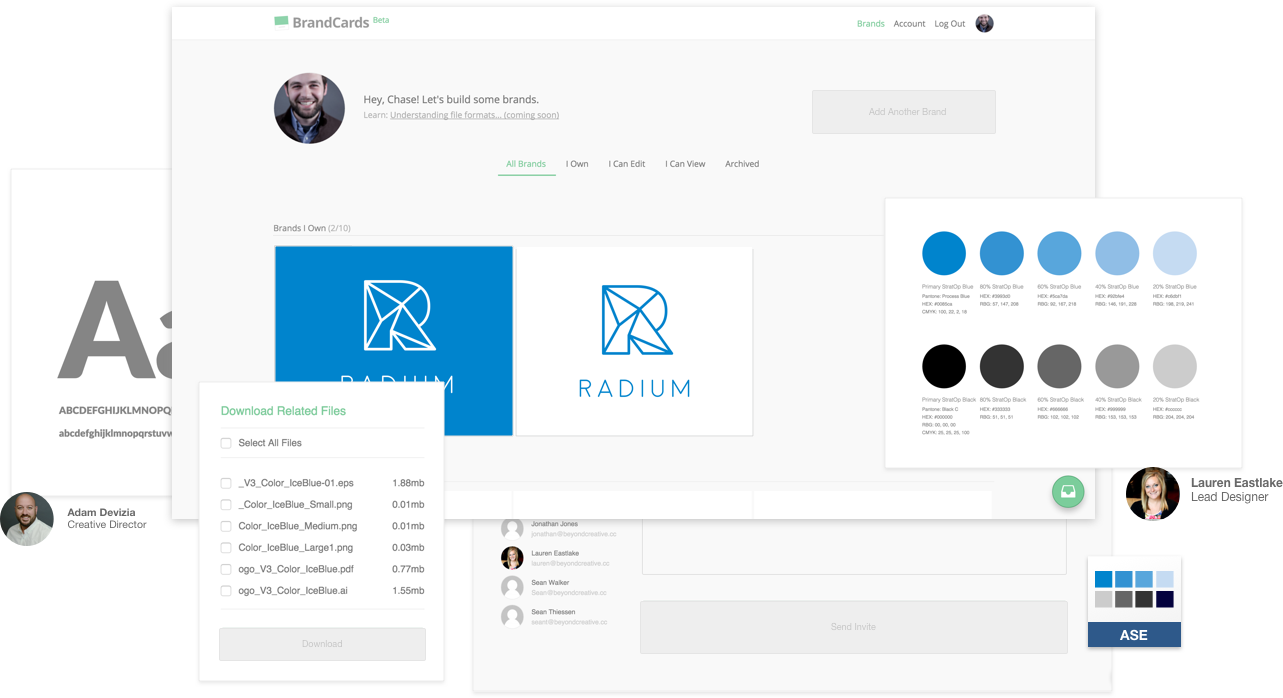
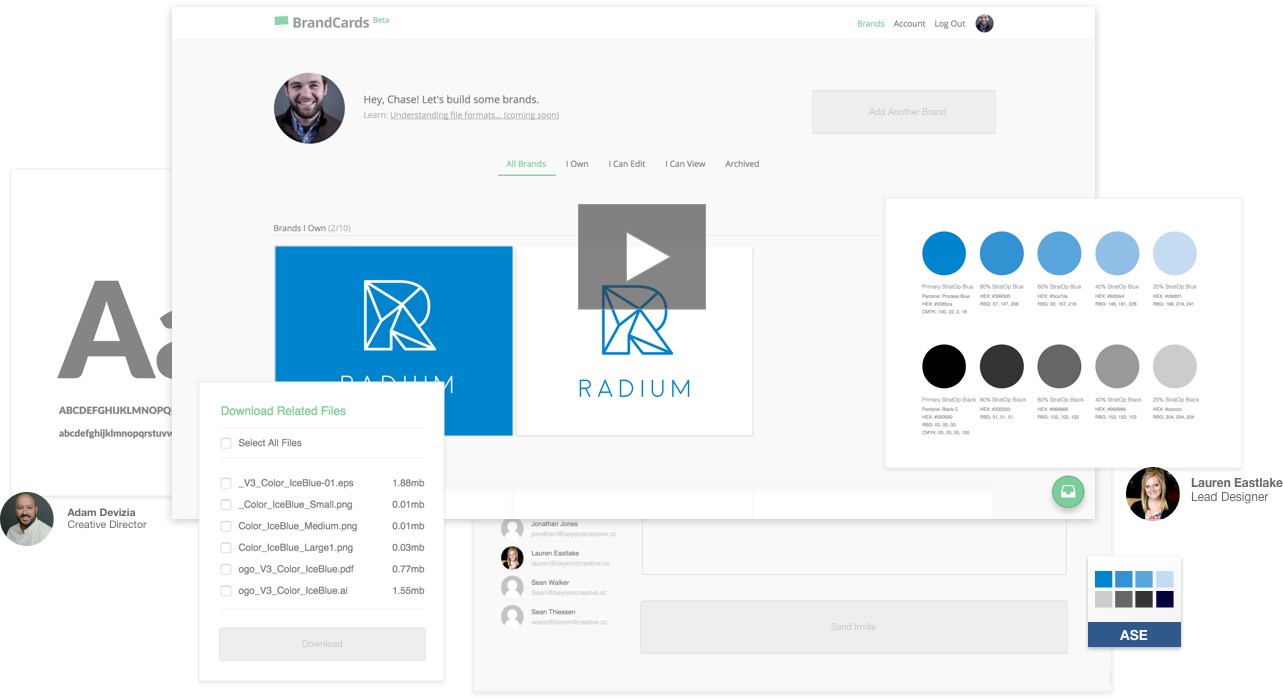
Add Walkthrough Video

Changed region(s): [[0.4365, 0.2708, 0.5612, 0.4513]]

diff --git a/page-home.php b/page-home.php
@@ -27,7 +27,8 @@ get_header(); ?>
 
 		<div class="app_image">
 			<div class="app_image_wrapper container row">
-				<a href="#"><img src="<?php bloginfo('stylesheet_directory'); ?>/images/app_image.png" alt="BrandCards Interface"></a>
+				<script charset="ISO-8859-1" src="//fast.wistia.com/assets/external/E-v1.js" async></script><div class="wistia_responsive_padding" style="padding:56.25% 0 0 0;position:relative;"><div class="wistia_responsive_wrapper" style="height:100%;left:0;position:absolute;top:0;width:100%;"><span class="wistia_embed wistia_async_vgqvcj1b90 popover=true popoverAnimateThumbnail=true popoverContent=link videoFoam=true" style="display:inline"><a href="#"><img src="<?php bloginfo('stylesheet_directory'); ?>/images/app_image.png" alt="BrandCards Interface"></a></span></div></div>
+
 				<p>BrandCards is an online app that allows you to create beautiful brand guidelines, manage all of your brand assets, and empower your team of designers, employees, and vendors. There's a place for everything: logos, colors, pallettes, typography, images, graphics, videos...</p>
 			</div>
 		</div>
